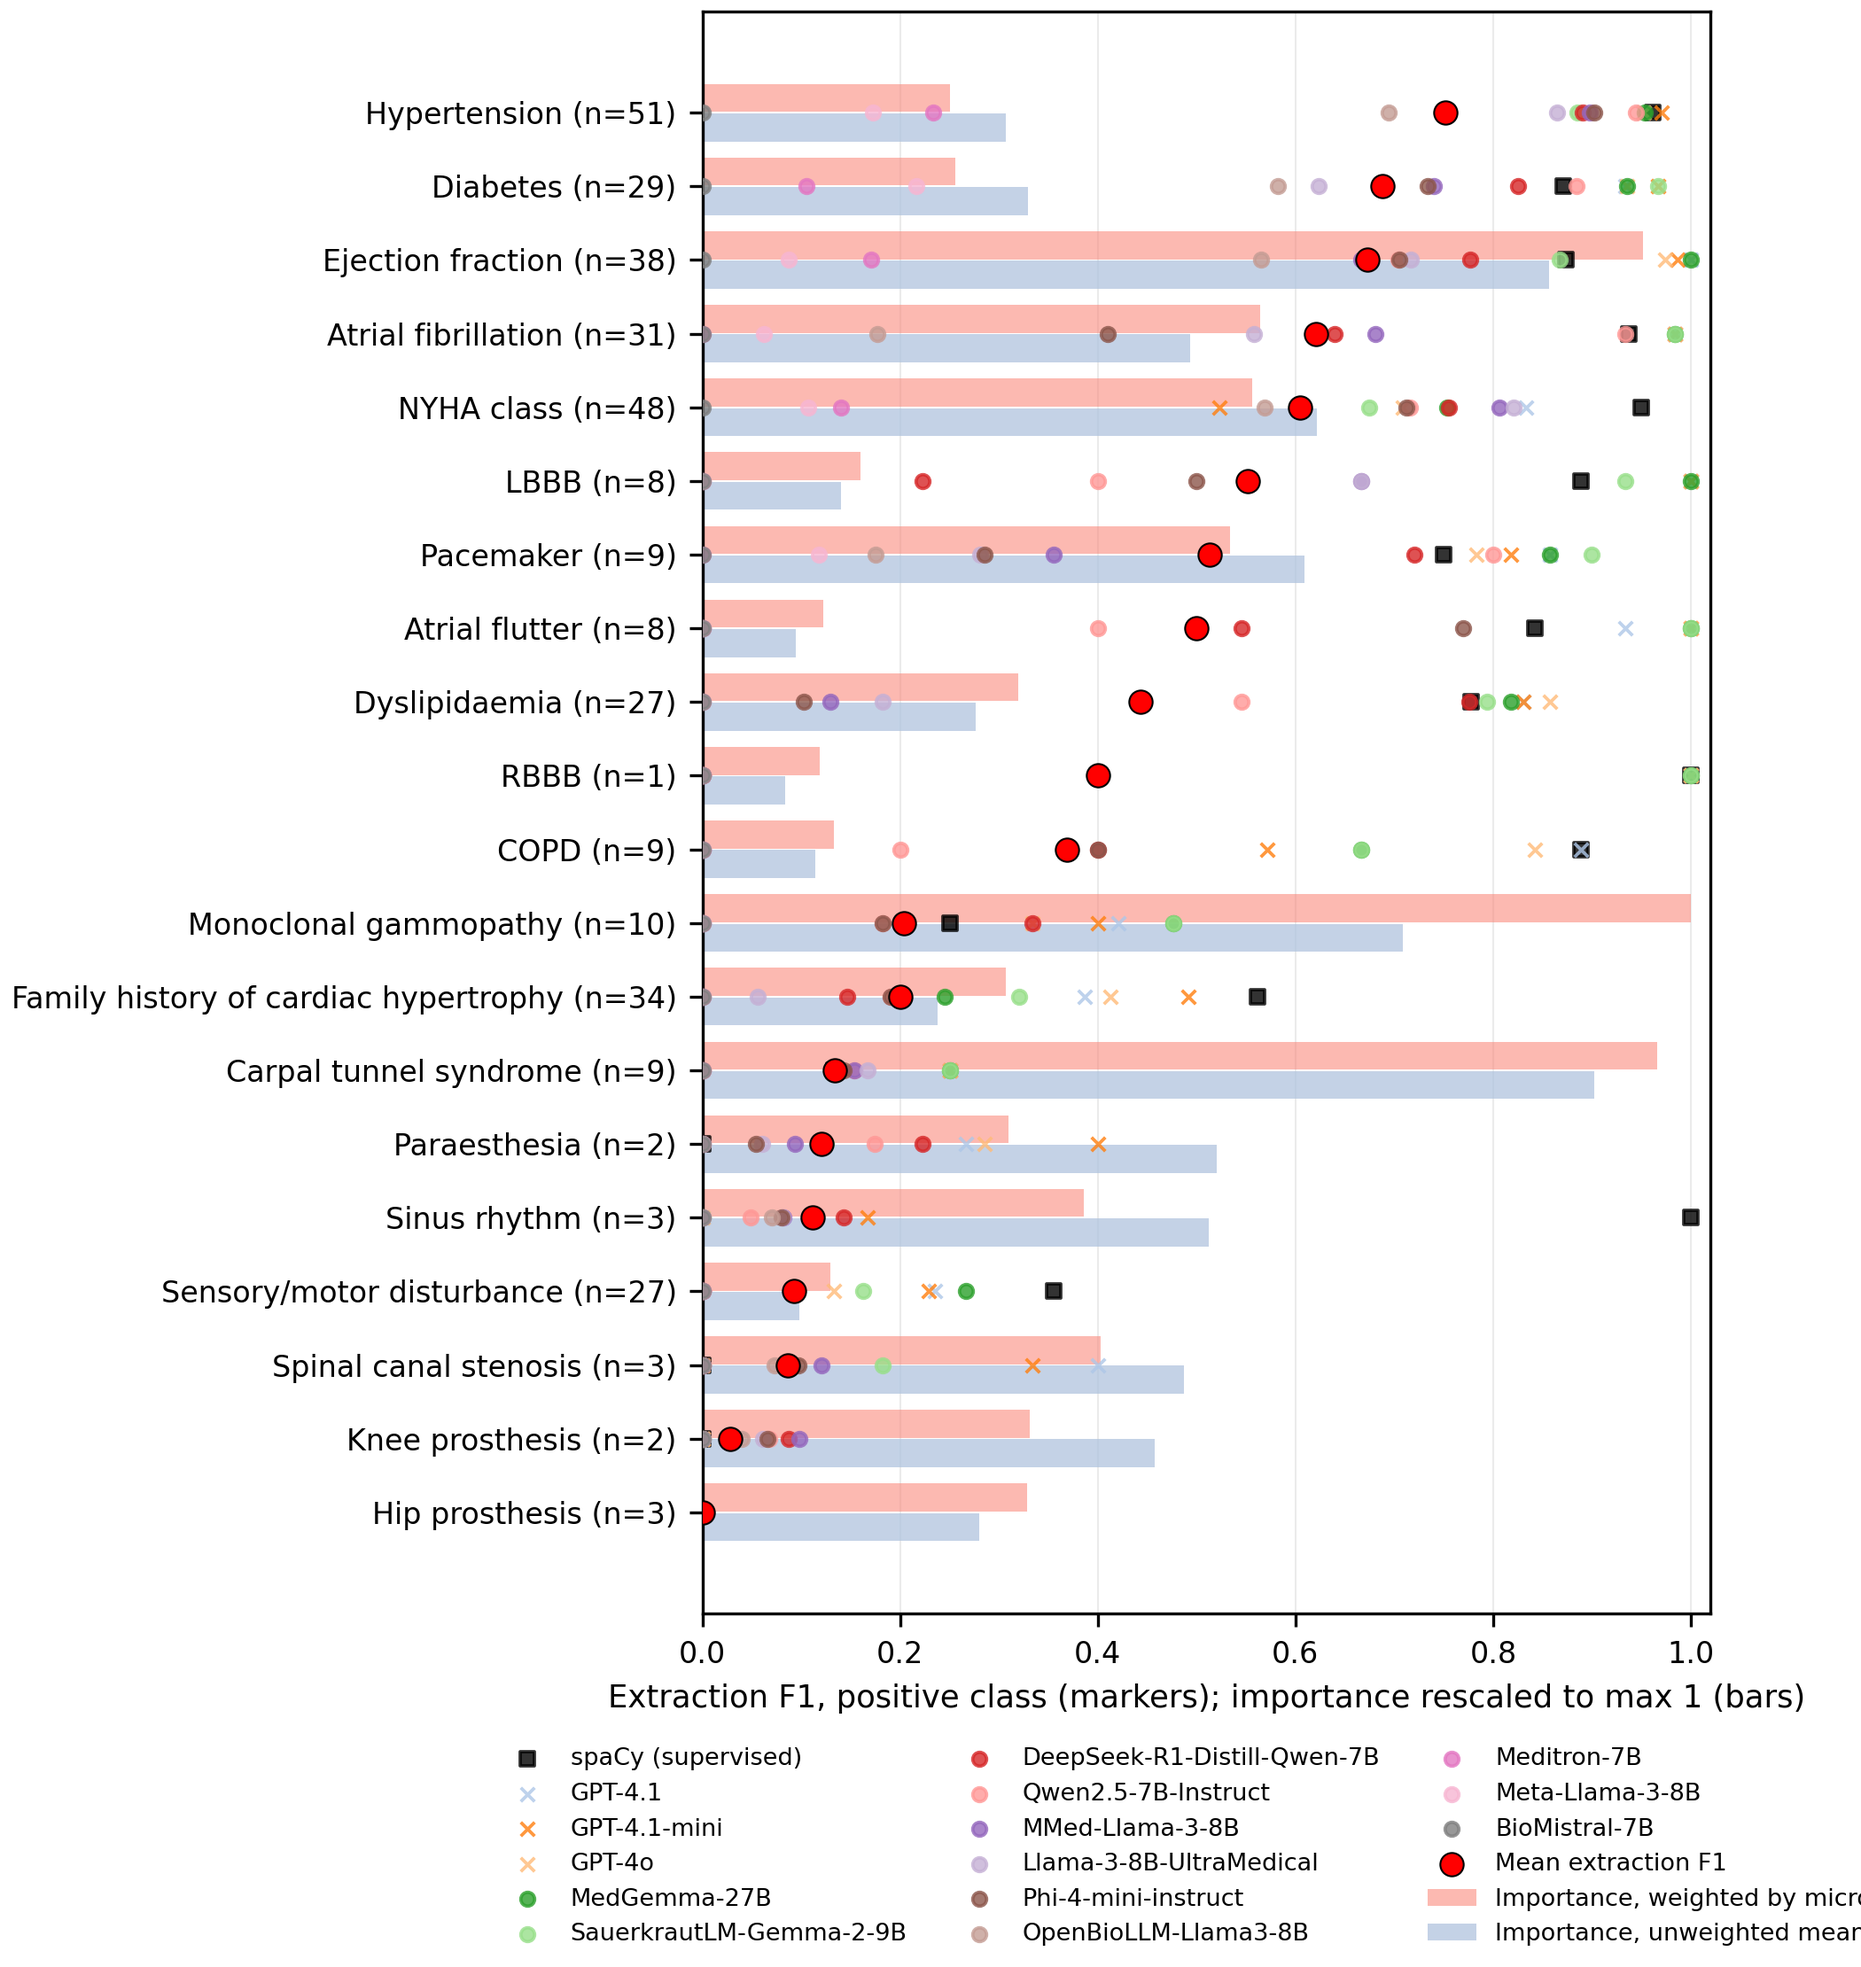
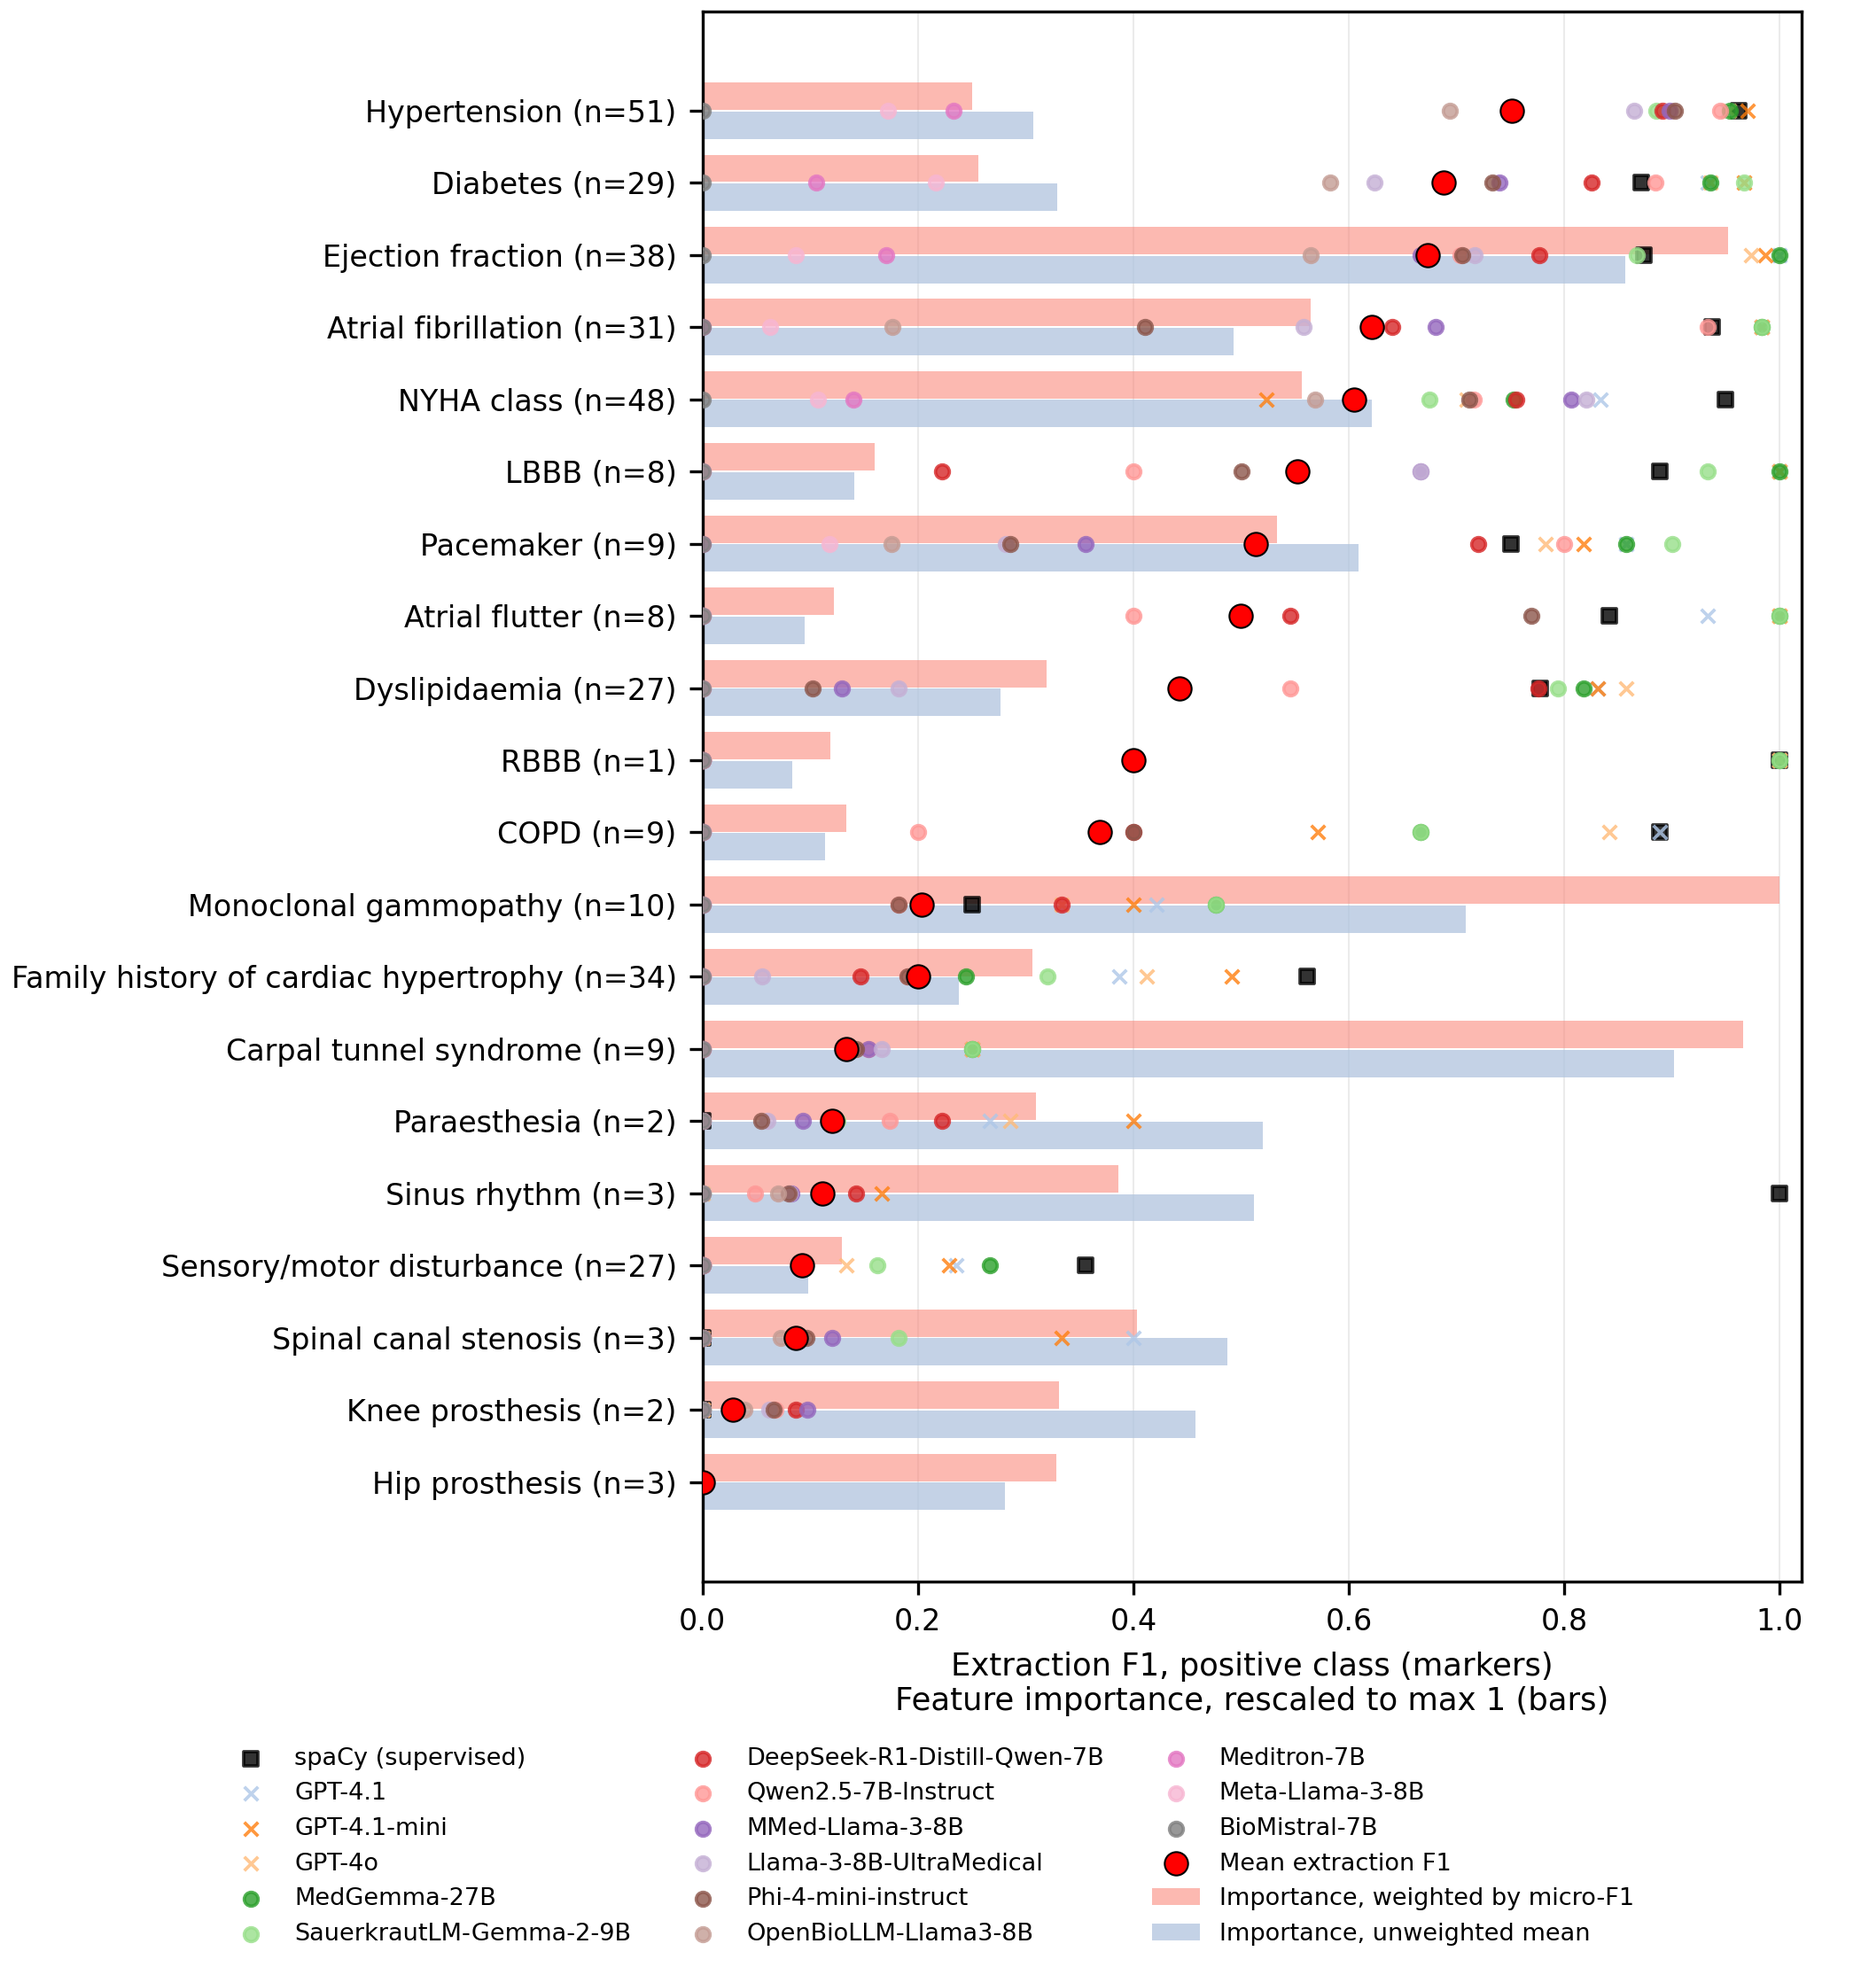
Figure 4: legend anchored to the figure so it fits within the page width

diff --git a/analysis/figure4.py b/analysis/figure4.py
@@ -190,10 +190,14 @@ def main():
                label="Mean extraction F1")
     ax.set_yticks(yy, [f"{LABEL_NAMES[l]} (n={int(sup[l])})" for l in labs], fontsize=8)
     ax.set_xlim(0, 1.02); ax.tick_params(axis="x", labelsize=8)
-    ax.set_xlabel("Extraction F1, positive class (markers); importance rescaled to max 1 (bars)",
+    ax.set_xlabel("Extraction F1, positive class (markers)\nFeature importance, rescaled to max 1 (bars)",
                   fontsize=8.5)
     ax.grid(axis="x", color="0.92", lw=0.5); ax.set_axisbelow(True)
-    ax.legend(fontsize=6.5, loc="upper center", bbox_to_anchor=(0.5, -0.07), ncol=3, frameon=False)
+    # Legend anchored to the figure, not the axes: the long row labels shift the axes to the
+    # right, and an axes-centred legend ran past the right edge of the 7-inch figure.
+    handles, labels = ax.get_legend_handles_labels()
+    fig.legend(handles, labels, fontsize=6.5, loc="outside lower center", ncol=3, frameon=False)
+    fig.get_layout_engine().set(rect=(0.0, 0.0, 0.975, 1.0))  # keep a right margin for the last tick
     out = os.path.join(OUT_DIR, "figure4")
     _save(fig, out)
 
